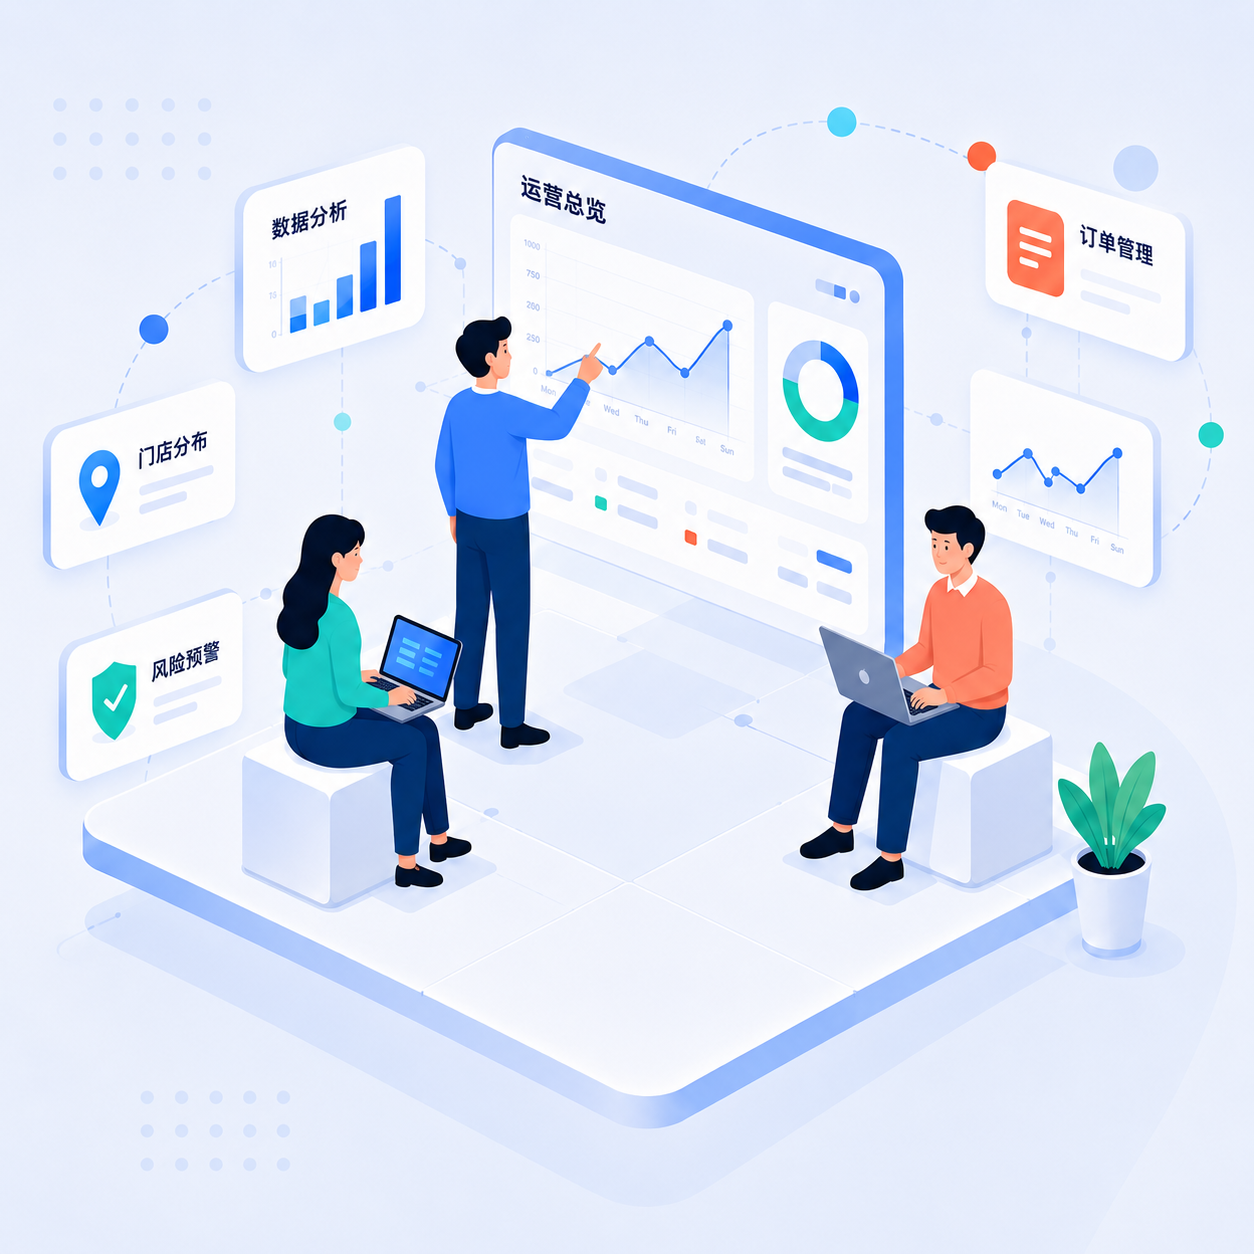
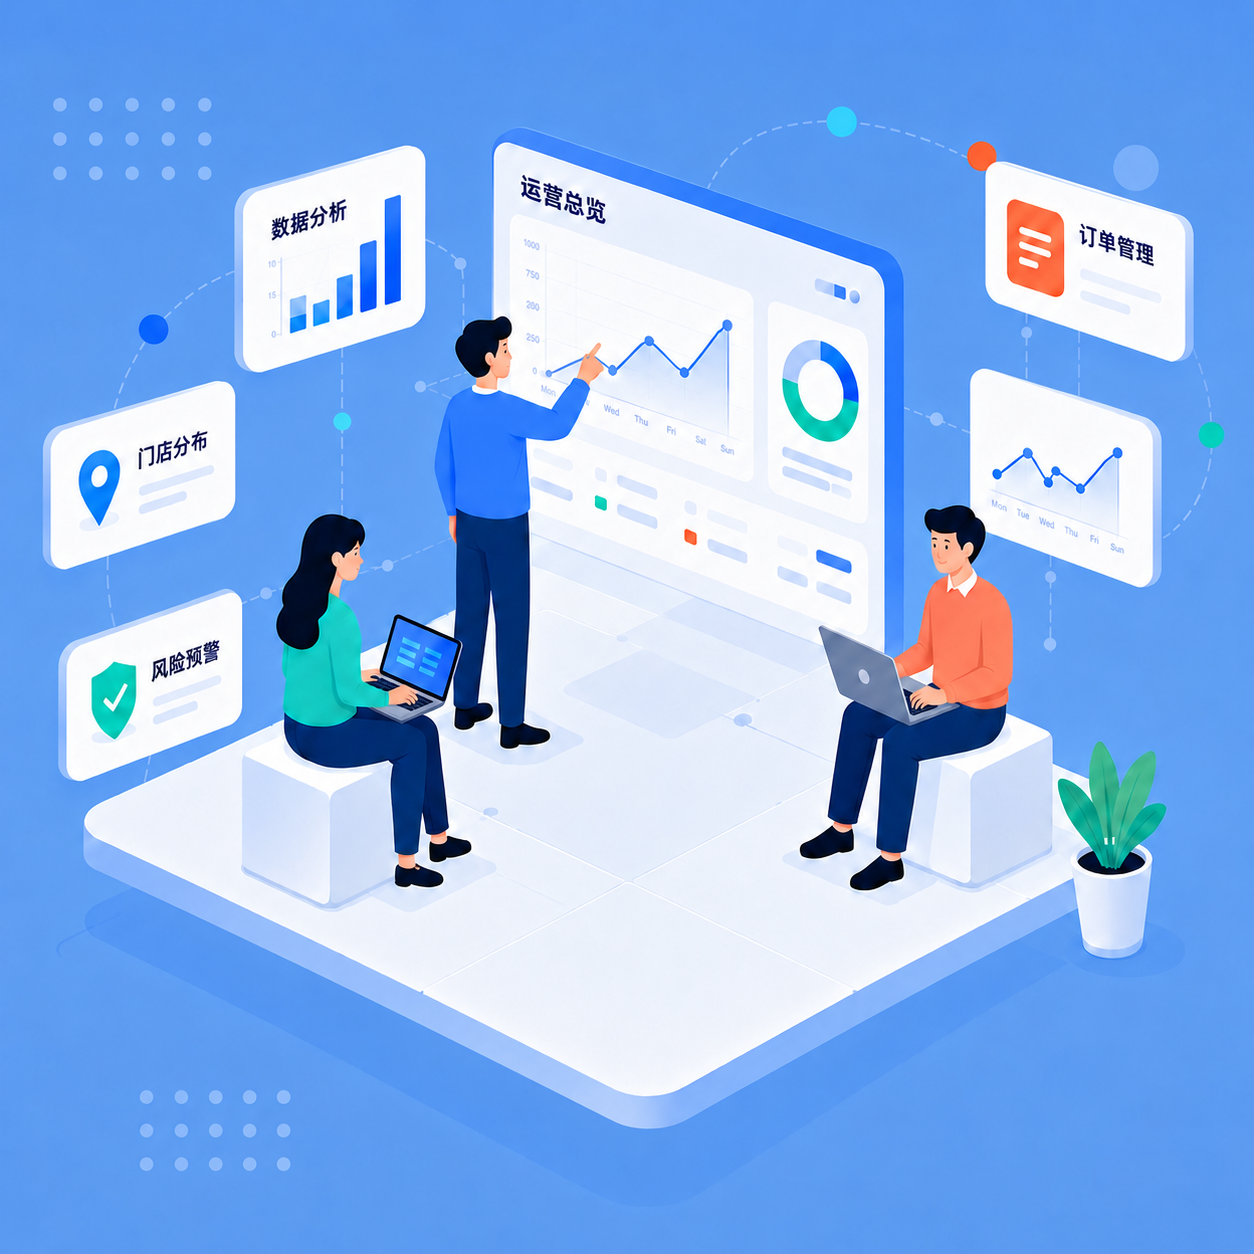
优化代码

diff --git a/src/views/common/AccountLoginForm.vue b/src/views/common/AccountLoginForm.vue
@@ -30,12 +30,13 @@
         <img :src="verifyUrl" @click="getCode" alt="点击刷新" @error="errorHandle" />
       </div>
     </el-form-item>
-    <el-form-item>
+    <div class="submit-button">
+      <div class="login-form-options"><a href="#">忘记密码？</a></div>
       <el-button style="width: 100%" size="large" type="primary" @click="handleLogin" :loading="loading">
         <span v-if="!loading">登录</span>
         <span v-else>登录中</span>
       </el-button>
-    </el-form-item>
+    </div>
   </el-form>
   <TotpPrompt ref="totpRef" @reload="loginSuccessHandle" @close="loginFail" />
   <TotpScanForm ref="totpScanRef" @reload="loginSuccessHandle" @close="loginFail" />
@@ -142,6 +143,29 @@ onActivated(() => {
 <style lang="scss" scoped>
 .login-form {
   width: 280px;
+  .submit-button {
+    margin-top: 10px;
+    .login-form-options {
+      display: flex;
+      justify-content: flex-end;
+      height: 24px;
+      margin: -2px 0 2px;
+      a {
+        color: #1769ff;
+        font-size: 13px;
+        line-height: 20px;
+        text-decoration: none;
+        &:hover {
+          text-decoration: underline;
+        }
+        &:focus-visible {
+          outline: 2px solid rgba(23, 105, 255, 0.38);
+          outline-offset: 2px;
+          border-radius: 2px;
+        }
+      }
+    }
+  }
 }
 .login-form-verify {
   float: right;

diff --git a/src/views/Login.vue b/src/views/Login.vue
@@ -32,26 +32,22 @@ const tabIndex = ref(0);
   align-items: center;
   height: 100%;
   overflow: hidden;
-  background:
-    url('@/assets/images/background.png') repeat 1px 1px,
-    linear-gradient(132deg, rgba(0, 168, 255, 1) 0%, rgba(0, 210, 211, 1) 50%, rgba(0, 168, 255, 1) 100%);
-  background-blend-mode: multiply;
+  background: url('@/assets/images/background-square.png') center / cover no-repeat;
 
   .login-layout {
     width: 900px;
-    height: 400px;
+    height: 450px;
     display: flex;
     justify-content: center;
     align-items: center;
     border-radius: 10px;
     overflow: hidden;
-    box-shadow: 5px 5px 3px rgba(0, 0, 0, 0.2);
+    box-shadow: 8px 8px 5px rgba(0, 0, 0, 0.2);
 
     .login-layout-left {
       width: 500px;
       height: 100%;
-      background-image: url('@/assets/images/login.png');
-      background-size: cover;
+      background: url('@/assets/images/login.png') center / cover no-repeat;
     }
 
     .login-layout-right {
@@ -81,7 +77,7 @@ const tabIndex = ref(0);
       }
       .login-form-container {
         height: 300px;
-        padding-top: 30px;
+        padding-top: 10px;
       }
     }
   }
